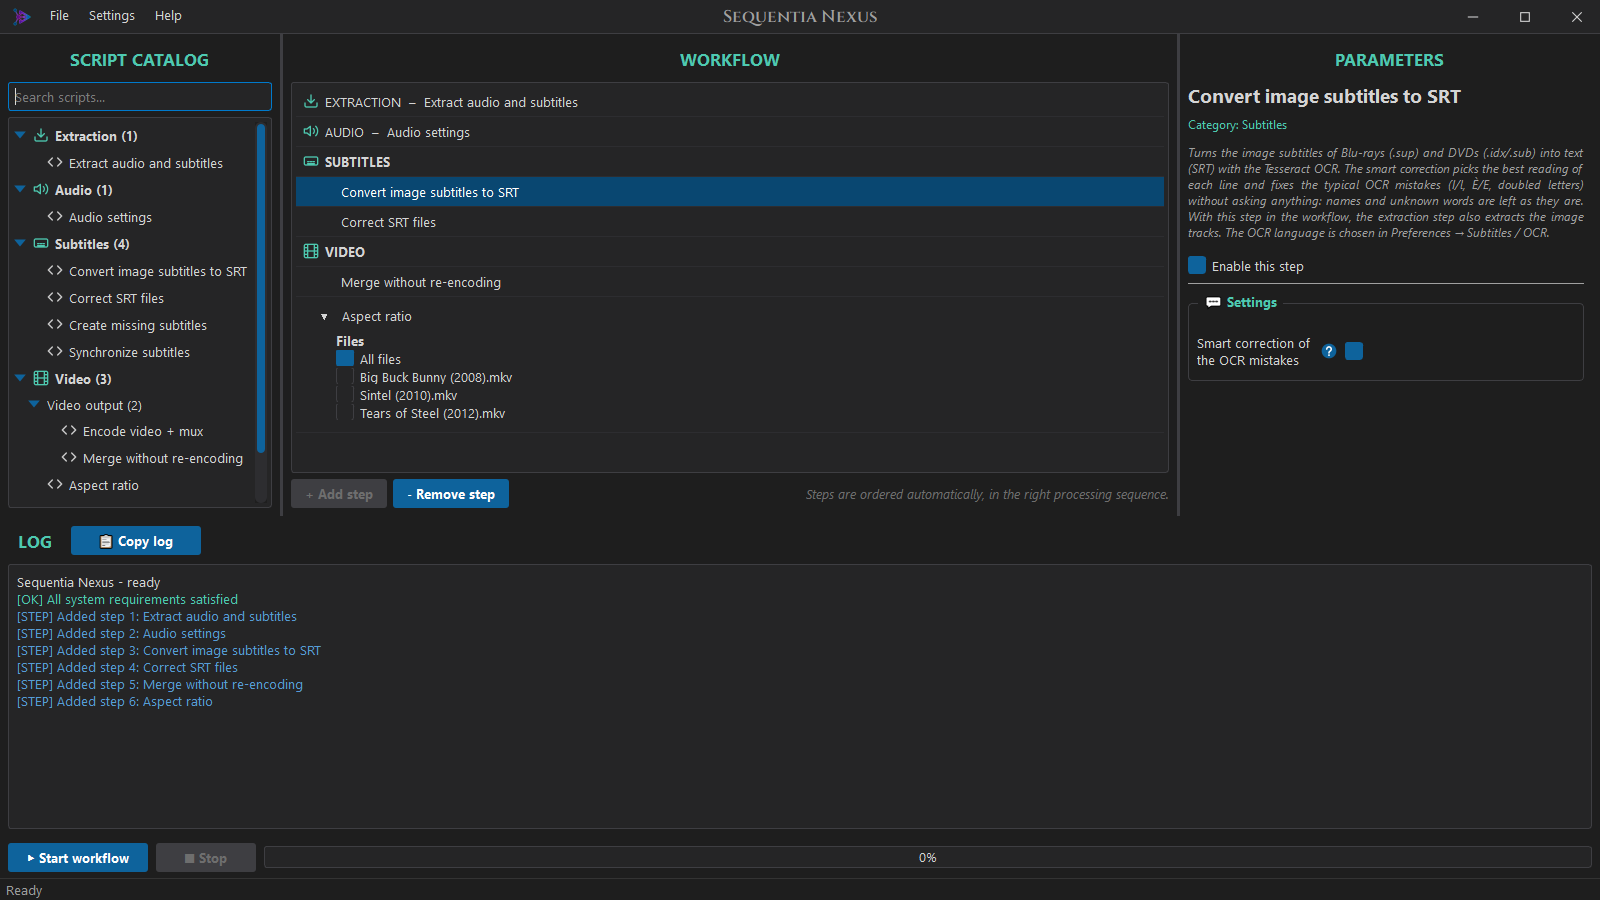
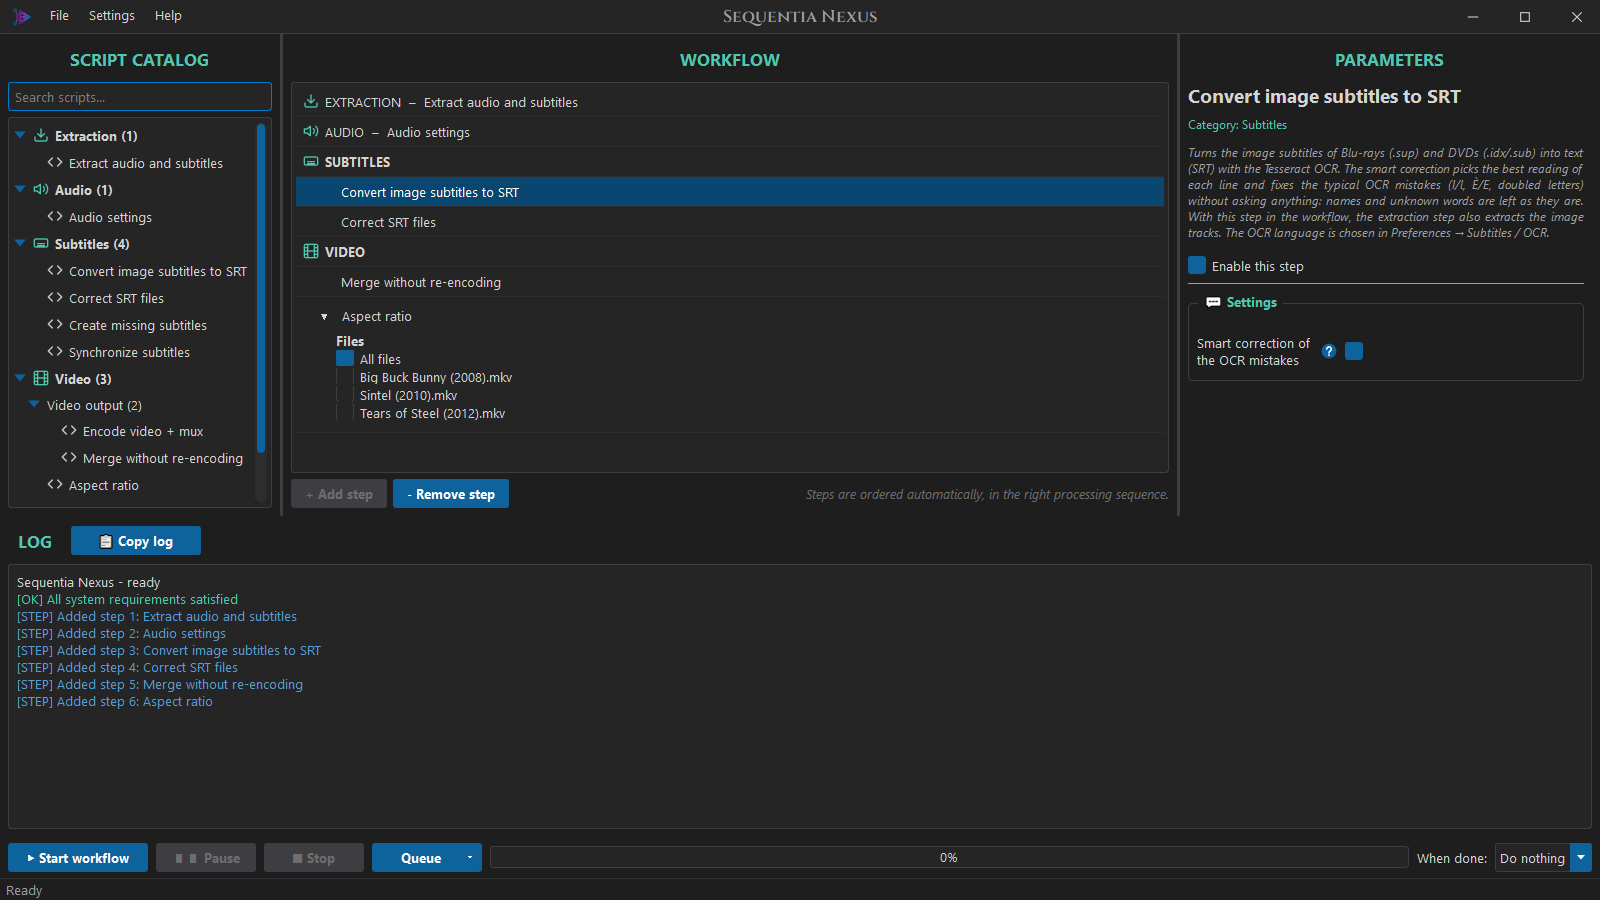
Sequentia Nexus 0.46.0

Changed region(s): [[0.125, 0.9333, 0.3125, 0.9956], [0.875, 0.9333, 1.0, 0.9644], [0.5625, 0.9333, 0.5938, 0.9644]]

diff --git a/docs/HOW_TO_USE.md b/docs/HOW_TO_USE.md
@@ -1,6 +1,6 @@
 # How to use Sequentia Nexus
 
-This guide covers version **0.45.0**. Sequentia Nexus is in beta: some parts may still change.
+This guide covers version **0.46.0**. Sequentia Nexus is in beta: some parts may still change.
 
 **Contents**
 
@@ -80,12 +80,18 @@ A program installed here is found right away: you don't need to restart the app.
 
 The menus:
 
-- **File**: *New workflow*, *Open preset...*, *Save preset as...*, *Delete preset...*, *Exit*.
+- **File**: *New workflow*, *Open preset...*, *Save preset as...*, *Delete preset...*,
+  *Queue...*, *Exit*.
 - **Settings**: *Preferences...* (also **Ctrl+,**), *System Requirements...*, *Theme* (Dark,
-  Light, System). The program starts in English: the language is chosen in
-  **Preferences → Language**. That page always says "Language" in English too, so it can be
-  found even in a language you cannot read.
-- **Help**: *Documentation* (opens this guide), *Check for updates...* (see
+  Light, System). The program starts in the language of Windows (English when it is not one of
+  its languages); the language is chosen in **Preferences → Language**. That page always says
+  "Language" in English too, so it can be found even in a language you cannot read.
+- **Help**: *Documentation* (also **F1**) opens this guide in a window of its own, in the
+  language of the program: the chapters on the left (they open on their sections), the text on the
+  right, a search field on top, and the usual buttons to make it full screen. The guide is kept up
+  to date from sequentianexus.com (also when there is no new version of the program) and works
+  offline too. The same guide is on the site, at
+  [sequentianexus.com/guide](https://sequentianexus.com/guide/). *Check for updates...* (see
   [Updates](#updates)), *About*.
 
 ![Light theme](images/main_light.png)
@@ -1153,6 +1159,8 @@ On Windows, in `%APPDATA%\SequentiaNexus\`:
 | `requirements.json` | The last requirements check |
 | `license.json` | The license activated on this PC (the activation is protected by Windows) |
 | `steps\` | The steps received from the license server, encrypted |
+| `queue.json` | The queue of jobs |
+| `guide\` | The user guide downloaded from the site |
 
 Deleting the app folder does not remove this folder: delete it by hand if you want a clean
 start.

diff --git a/README.md b/README.md
@@ -10,7 +10,7 @@
 </p>
 
 <p align="center">
-  <img alt="Version" src="https://img.shields.io/badge/version-0.45.0-0e639c">
+  <img alt="Version" src="https://img.shields.io/badge/version-0.46.0-0e639c">
   <img alt="Platform" src="https://img.shields.io/badge/platform-Windows%2010%20%7C%2011-0e639c">
   <img alt="Status" src="https://img.shields.io/badge/status-beta-d08a1e">
 </p>
@@ -66,6 +66,9 @@ every video in a folder. The result is a clean MKV with the audio and subtitles 
   (nothing installs by itself).
 - **Queue**: several workflows, each with its own folders, run one after the other; all the
   checks are done at the start, then it runs unattended, every job with its own log.
+- **Guide in 11 languages**, inside the program (Help → Documentation, F1: chapters, search,
+  always up to date from the site) and at
+  **[sequentianexus.com/guide](https://sequentianexus.com/guide/)**.
 - **Presets**, a check before every run, a live log, a progress bar that moves while
   each file is worked on, a workflow list where every working step shows a turning arrow and
   each finished step a ✓ or ✗ (for movies and TV series separately), an optional notification on screen or on Telegram when the work is
@@ -123,7 +126,8 @@ inside the program are listed, with their licenses, in `THIRD-PARTY-NOTICES.txt`
 During the beta the program is free: get your personal key at
 **[sequentianexus.com/beta](https://sequentianexus.com/beta)**.
 
-The full guide is in **[docs/HOW_TO_USE.md](docs/HOW_TO_USE.md)**.
+The full guide is in **[docs/HOW_TO_USE.md](docs/HOW_TO_USE.md)**, and in 11 languages at
+**[sequentianexus.com/guide](https://sequentianexus.com/guide/)**.
 
 ## Feedback
 
